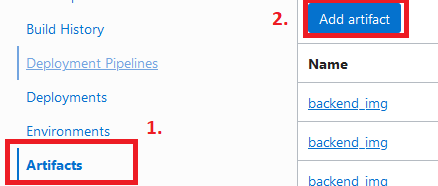
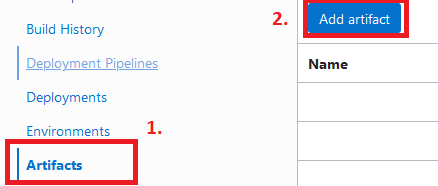
lab 1 development

Changed region(s): [[0.6826, 0.9409, 0.8904, 1.0], [0.6826, 0.7258, 0.8904, 0.8065], [0.6826, 0.5376, 0.8904, 0.5914]]

diff --git a/Lab. #1 - Deployment Automation/README.md b/Lab. #1 - Deployment Automation/README.md
@@ -23,8 +23,11 @@ Para aprofundar seu conhecimento neste serviço, acesse os links abaixo! 👇
   - [Passo 4.1: Criação do kubernetes secret](#Passo4.1)
   - [Passo 4.2: Adição de environment no OCI DevOps](#Passo4.2)
   - [Passo 4.3: Criação de artefato de deployment](#Passo4.3)
-- [Passo 5: Criação do trigger de início e do trigger de conexão dos pipelines de CI e de CD](#Passo5)
-- [Passo 6: Validar implementação](#Passo6)
+  - [Passo 4.4: Criação de pipeline de deployment](#Passo4.4)
+- [Passo 5: Criação dos triggers de início e de conexão dos pipelines de CI e de CD](#Passo5)
+  - [Passo 5.1: Criação do trigger de início do build pipeline](#Passo5.1)
+  - [Passo 5.2: Criação do trigger de conexão entre os pipelines de build e deployment](#Passo5.2)
+- [Passo 6: Validação da implementação](#Passo6)
 
  - - -
 
@@ -336,9 +339,9 @@ kubectl create secret docker-registry ocisecret --docker-server=iad.ocir.io --do
 ### <a name="Passo4.2"></a> Passo 4.2: Adição de Environment no OCI DevOps
 Vamos agora adicionar o cluster kubernetes como ambiente alvo no projeto OCI DevOps.
 
-1. Retorne ao seu projeto DevOps clicando no menu hambúrguer 🍔 e acessando: **Developer Services**  → **Projects**.
+1. Retorne ao seu projeto DevOps clicando no menu hambúrguer 🍔 e acessando: **Developer Services** → **DevOps** → **Projects**.
 
-1. No canto esquerdo, selecione **Environments**.
+2. No canto esquerdo, selecione **Environments**.
          
 ![](./Images/040-LAB4.png)
 
@@ -355,107 +358,130 @@ Vamos agora adicionar o cluster kubernetes como ambiente alvo no projeto OCI Dev
 
 ### <a name="Passo4.3"></a> Passo 4.3: Criação de artefato de deployment
 
-Nesse momento, vamos adicionar o arquivo deployment.yaml no artifact registry, para utilizá-lo no pipeline de deployment.
+Nesse momento, vamos adicionar o arquivo deployment.yaml como artefato no OCI DevOps.
 
-Para aprofundar seu conhecimento neste serviço, acesse o link abaixo! 👇
+1. Copie o [deployment.yaml](./scripts/deployment.yaml) para um novo bloco de notas.
 
-- 🧾 [Documentação do OCI Artifact Registry](https://docs.oracle.com/en-us/iaas/Content/artifacts/home.htm)
+2. Acesse o seu projeto DevOps clicando no menu hambúrguer 🍔 e acessando: **Developer Services** → **DevOps** → **Projects**.
 
-1. Copie o [deployment.yaml](./scripts/deployment.yaml) para um novo bloco de notas e salve o arquivo.
-
-2. Na OCI, no menu de hambúrguer 🍔, acesse: **Developer Services** → **Containers & Artifacts** → **Artifact Registry**.
-
-![](./Images/artifact_registry1.png)
-
-3. Clique em **Create Repository**.
-
-![](./Images/artifact_registry2.png)
-
-6. No canto esquerdo selecione **Artifacts** em seguida em **Add Artifact**.
+3. No canto esquerdo selecione **Artifacts** em seguida em **Add Artifact**.
           
 ![](./Images/042-LAB4.png)
 
-7. Preencha o formulario como abaixo e clique em **Add**.
+11. Preencha o formulario como abaixo e clique em **Add**.
  - **Name**: deployment.yaml
  - **Type**: Kubernetes manifest
  - **Artifact Source**: Inline
- - **Value**: Cole o conteúdo do arquivo https://github.com/CeInnovationTeam/BackendFTDev/blob/main/scripts/deployment.yaml
- *Não altere a identação (espaços) do documento, pois isso pode quebrá-lo*.
+ - **Value**: *Cole o conteúdo do arquivo deployment.yaml*
  - **Replace parameters used in this artifact**: Yes, substitute placeholders
           
-![](./Images/043_0-LAB4.png)
+![](./Images/deployment_yaml.png)
 
-8. No canto esquerdo, selecione **Deployment Pipelines** e, em seguida, clique em **Create Pipeline**.
+### <a name="Passo4.4"></a> Passo 4.4: Criação de pipeline de deployment
+
+1. No canto esquerdo, selecione **Deployment Pipelines** e, em seguida, clique em **Create Pipeline**.
           
 ![](./Images/044-LAB4.png)
 
-9. Preencha o formulário como abaixo e clique em **Create pipeline**.
+2. Preencha o formulário como abaixo e clique em **Create pipeline**.
  - **Pipeline name**: deploy
  - **Description**: (Defina uma descrição qualquer).
           
 ![](./Images/048-LAB4.png) 
-          
-![](./Images/049-LAB4.png)
 
-10. Retorne à aba de **Pipeline** e clique em **Add Stage**.
+3. Na aba de 'Pipeline', clique em **Add Stage**.
           
 ![](./Images/050-LAB4.png)
 
-11. Selecione a Opção **Apply Manifest to your Kubernetes Cluster** e clique em **Next**.
+4. Selecione a Opção **Apply Manifest to your Kubernetes Cluster** e clique em **Next**.
           
 ![](./Images/051-LAB4.png)
 
-12. Preencha o formulário da seguinte forma:
+5. Preencha o formulário da seguinte forma:
  - **Name**: Deployment da Aplicacao
  - **Description**: (Defina uma Descrição qualquer).
  - **Environment**: OKE
 
 ![](./Images/052_0-LAB4.png)
 
-13. Clique em **Select Artifact**, e selecione **deployment.yaml**.
+6. Clique em **Select Artifact**, e selecione **deployment.yaml**.
 
 ![](./Images/052_1-LAB4.png)
 
-14. Feito isto, clique em **Add**.
+7. Feito isto, insira 'mushop' em **Override Kubernetes namespace** e clique em **Add**.
+
+![](./Images/deployment_pipeline1_1.png)
  
-Com isso finalizamos a parte de Deployment (CD) do nosso projeto! No passo a seguir vamos conectar ambos os pipelines, e definir um gatilho (trigger) para que o processo automatizado se inicie!
+Com isso finalizamos a parte de Deployment (CD) do nosso projeto! No passo a seguir vamos conectar ambos os pipelines, e definir um trigger para que o processo automatizado se inicie!
 
 - - -
 
-## <a name="Passo5"></a> Passo 5: Criação do trigger de início e do trigger de conexão dos pipelines de CI e de CD
+## <a name="Passo5"></a> Passo 5: Criação dos triggers de início e de conexão dos pipelines de CI e de CD
 
-1. Retorne ao projeto clicando no 🍔 menu hambúrguer e acessando: **Developer Services**  → **Projects**.
-  2. No canto esquerdo selecione **Triggers**, e em seguida clique em **Create Trigger**.
+### <a name="Passo5.1"></a> Passo 5.1: Criação do trigger de início do build pipeline
 
-  ![](./Images/053-LAB4.png)
+1. Retorne ao projeto clicando no 🍔 menu hambúrguer e acessando: **Developer Services** → **DevOps** → **Projects**.
 
-  3. Preencha o formulário como abaixo e clique em **Create**.
-  - **Name**: Inicio
+2. No canto esquerdo selecione **Triggers**, e em seguida clique em **Create Trigger**.
+
+![](./Images/053-LAB4.png)
+
+3. Preencha o formulário como abaixo e clique em **Add action**.
+  - **Name**: trigger-mushop
   - **Description**: (Defina uma descrição qualquer).
-  - **Source connection**: OCI Code Repository
-  - **Select code repository**: ftRepo
-  - **Actions**: Add Action
-    - **Select Build Pipeline**: build
-    - **Event**: Push (check) 
-    - **Source branch**: main
+  - **Source connection**: GitHub
 
-![](./Images/054-LAB4.png)
+![](./Images/trigger1.png)
 
-*A partir desse momento, qualquer novo push feito no repositório do projeto iniciará o pipeline de build criado nesse workshop*.
+4. Preencha o formulário como abaixo e clique em **Save**.
+  - **Select Build Pipeline**: build
+  - **Event**: Push (check) 
+  - **Source branch**: main
 
-4. Retorne à configuração do pipeline de build do projeto selecionando **Build Pipelines** → **build**.
+![](./Images/trigger2.png)
+
+5. Então, clique em **Create**.
+
+![](./Images/trigger3.png)
+
+6. Copie o 'Trigger URL' e o 'Trigger Secret' para um bloco de notas, então clique em **Close**.
+
+![](./Images/trigger4.png)
+
+*Nesse momento, vamos então configurar o envio da notificação de push do repo no github para o OCI DevOps*.
+
+7. No GitHub, acesse o seu repo e clique em **Settings**.
+
+![](./Images/github_webhook1.png)
+
+8. No lado esquerdo, clique em **Webhooks** e, então, em **Add webhook**.
+
+![](./Images/github_webhook2.png)
+
+9. Preencha o formulário como abaixo e clique em **Add webhook**.
+  - **Payload URL**: *Copiado anteriormente*
+  - **Content type**: application/json
+  - **Secret**: *Copiado anteriormente*
+
+![](./Images/github_webhook3.png)
+
+*A partir desse momento, qualquer novo push feito no repositório do github iniciará o pipeline de build criado nesse workshop*.
+
+### <a name="Passo5.2"></a> Passo 5.2: Criação do trigger de conexão entre os pipelines de build e deployment
+
+1. Retorne à configuração do pipeline de build do projeto selecionando **Build Pipelines** → **build**.
 
 ![](./Images/055-LAB4.png)
 
-  5. Na aba de Build Pipeline, clique no sinal de **"+"** abaixo do stage **Entrega de Imagem de Container** e clique em **Add Stage**.
+2. Na aba de Build Pipeline, clique no sinal de **"+"** abaixo do stage **Entrega de Imagem de Container** e clique em **Add Stage**.
 
-![](./Images/056-LAB4.png)
+![](./Images/trigger_cicd.png)
 
-6. Selecione o item de **Trigger Deployment**, e clique em **Next**.
+3. Selecione o item de **Trigger Deployment**, e clique em **Next**.
 
 ![](./Images/057-LAB4.png)
 
-7. Preencha o formulário como abaixo e clique em **Add**.
+4. Preencha o formulário como abaixo e clique em **Add**.
 - **Nome**: Inicio de Deployment
 - **Description**: (Defina uma descrição qualquer).
 - **Select deployment pipeline**: deploy
@@ -464,27 +490,33 @@ Com isso finalizamos a parte de Deployment (CD) do nosso projeto! No passo a seg
 
 ![](./Images/058-LAB4.png)
 
+![](./Images/trigger_cicd2.png)
+
 Parabéns por chegar até aqui!! Nosso pipeline já está pronto! No próximo passo iremos validar o projeto, checando se está tudo ok.
 
- ## <a name="Passo6"></a> Passo 6: Execução e testes
-  1.  Retorne ao projeto clicando no 🍔 menu hambúrguer e acessando: **Developer Services**  → **Projects**.
-  2.  Retorne à configuração do pipeline de build do projeto selecionando **Build Pipelines** → **build**.
-  
-  ![](./Images/055-LAB4.png)
+## <a name="Passo6"></a> Passo 6: Validação da implementação
 
-  3. No canto direito superior, selecione **Start Manual Run**.
+1.  Retorne ao projeto clicando no 🍔 menu hambúrguer e acessando: **Developer Services**  → **Projects**.
+
+2.  Retorne à configuração do pipeline de build do projeto selecionando **Build Pipelines** → **build**.
+  
+![](./Images/055-LAB4.png)
+
+3. No canto direito superior, selecione **Start Manual Run**.
 
 ![](./Images/055_1-LAB4.png)
 
-  4. Mantenha as informações do formulário padrão, e clique em **Start Manual Run**.
-  5. Aguarde a execução do fluxo.
-  6. Acesse novamente o Cloud Shell e execute o comando abaixo.
+4. Mantenha as informações do formulário padrão, e clique em **Start Manual Run**.
 
-  ```shell
-  kubectl get svc
-  ```
+5. Aguarde a execução do fluxo.
 
-  7. Copie a informação de EXTERNAL-IP do serviço _svc-java-app_ assim que estiver disponível.
+6. Acesse novamente o Cloud Shell e execute o comando abaixo.
+
+```shell
+kubectl get svc
+```
+
+7. Copie a informação de EXTERNAL-IP do serviço _svc-java-app_ assim que estiver disponível.
 
 ```shell
 NAME           TYPE           CLUSTER-IP      EXTERNAL-IP       PORT(S)          AGE
